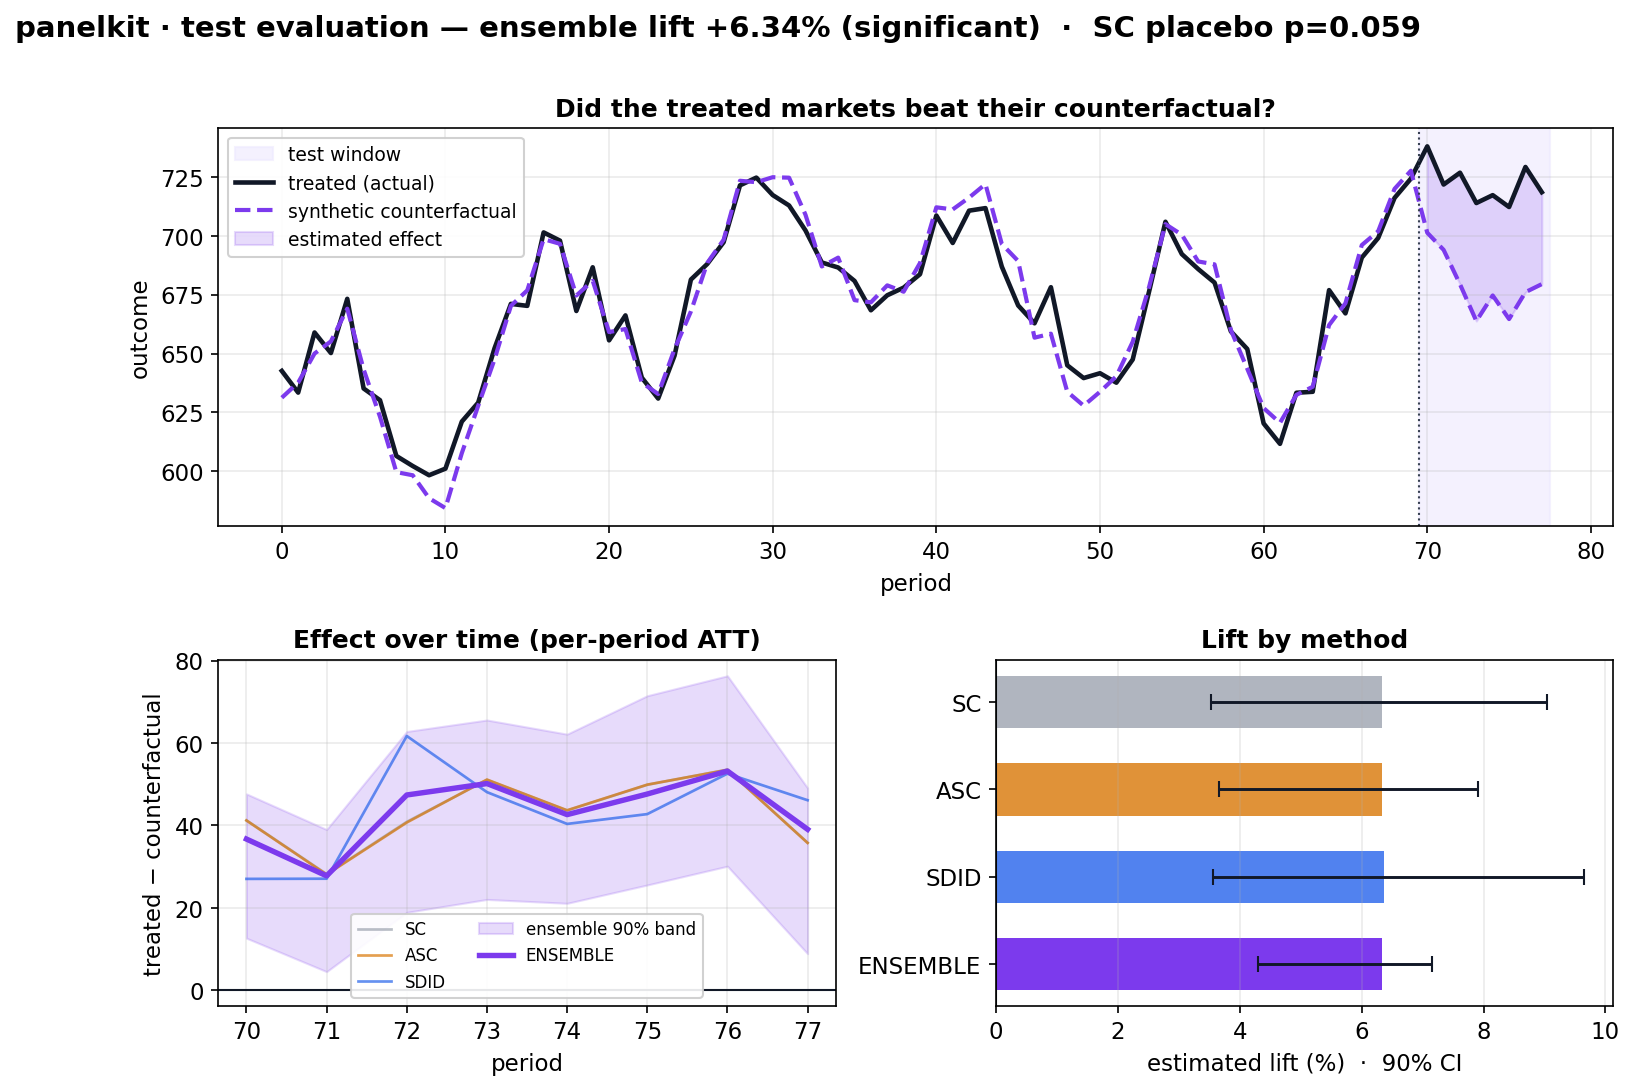
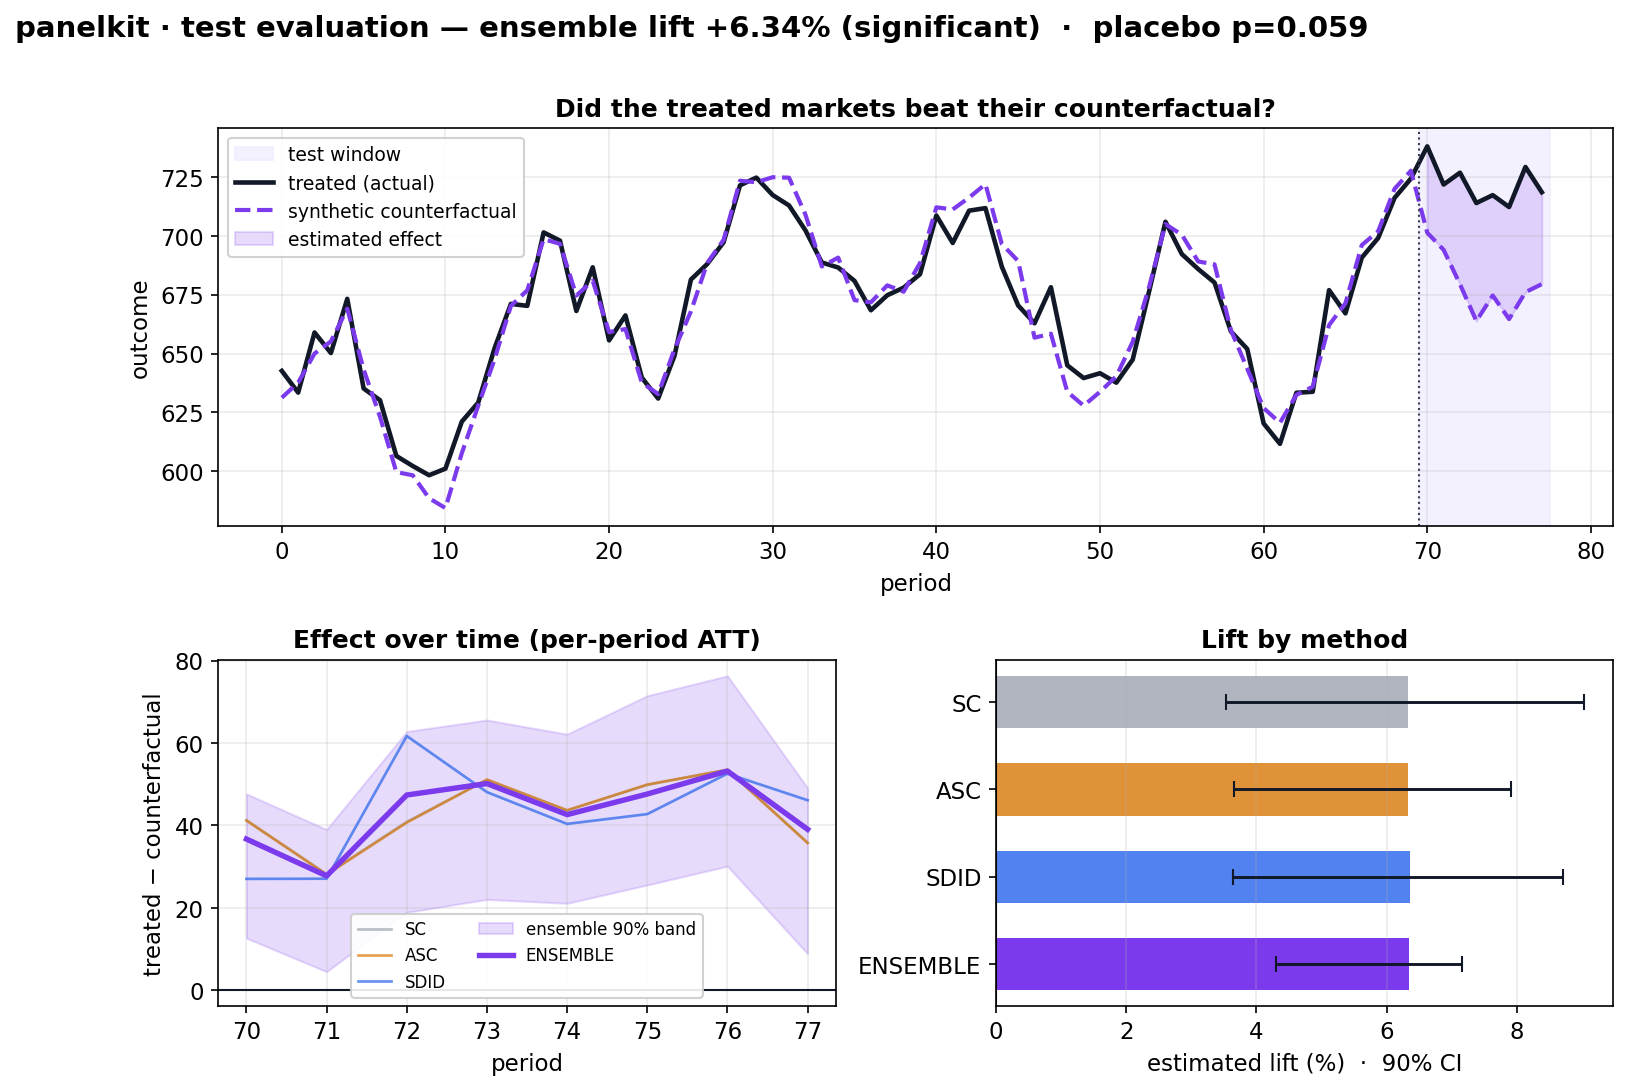
Audit hardening: fix mcnnm keyword, evaluate degenerate-CI guard, robustness
From a full repo audit (Rust core + Python/bindings + docs/packaging review):

Bindings / API
- fit_mcnnm: rename `lambda` -> `lambda_` so the penalty is usable as a Python
  keyword (`lambda` is reserved); stub now matches the binding.

evaluate() inference
- Guard the degenerate case: with <2 comparable donor placebos, report the CI as
  undefined (NaN) and significant=False instead of a fake zero-width interval that
  falsely read as significant. Add a `low_power` flag + plain-language warning.
- Apply the Abadie 2x pre-fit filter to per-method CIs too (was ensemble-only),
  for internal consistency.
- Relabel the p-value as the ENSEMBLE in-space placebo p-value (was mislabeled
  "SC") in summary and figure.
- Dedup treated markets in power/diagnose/evaluate (a market listed twice no
  longer inflates the n_treated-scaled cumulative).
- Case-insensitive ensemble-weight dict keys.

Rust robustness
- SDID: assert >=1 pre- and >=1 post-period (was silent NaN, unlike SC/ASC/MCNNM).
- simplex: remove dead `rho` binding (no behavior change).

Docs
- PUBLISHING.md: de-stale the 0.1.0 version (use <VERSION>); note PR-first flow.
- README: "bootstrap CIs"/"SC in-space" -> "in-space placebo" for evaluate().

Audit verified clean: Rust core has no critical math errors (GEMM/QR/Cholesky/
SVD/eig/RNG + all estimators faithful); TWFE==numpy OLS exactly; Goodman-Bacon
identity holds; SC weights simplex; determinism 1-vs-8 threads; cargo audit clean.
[…]

diff --git a/python/panelkit/design.py b/python/panelkit/design.py
@@ -42,7 +42,8 @@ def _ensemble_weight_arg(spec):
         raise ValueError(f"unknown ensemble_weights {spec!r} (use 'auto', 'equal', "
                          "a dict, or a 3-list)")
     if isinstance(spec, dict):
-        w = [float(spec.get(m, spec.get(m.lower(), 0.0))) for m in _ENSEMBLE_ORDER]
+        norm = {str(k).upper(): v for k, v in spec.items()}  # case-insensitive keys
+        w = [float(norm.get(m, 0.0)) for m in _ENSEMBLE_ORDER]
     else:
         w = [float(x) for x in spec]
         if len(w) != 3:
@@ -407,7 +408,7 @@ class GeoDesign:
                              target_power=target_power, recommended=recommended,
                              lookback=lookback, ensemble=ensemble,
                              ensemble_weights=ensemble_weights)
-        idx = self._resolve(treated)
+        idx = list(dict.fromkeys(self._resolve(treated)))  # dedup, preserve order
         names = [self.names[i] for i in idx]
         lifts = list(_DEFAULT_LIFTS if lifts is None else lifts)
         if 0.0 not in lifts:
@@ -443,7 +444,7 @@ class GeoDesign:
             if bad:
                 raise ValueError(f"treated markets were also excluded: {bad}")
             return sub.diagnose(tnames, test_len)
-        idx = self._resolve(treated)
+        idx = list(dict.fromkeys(self._resolve(treated)))  # dedup, preserve order
         names = [self.names[i] for i in idx]
         t0 = self.t - int(test_len)
         diag = _panelkit.geo_diagnostics(self.Y, idx, int(test_len))
@@ -733,7 +734,7 @@ class GeoDesign:
                 raise ValueError(f"treated markets were also excluded: {bad}")
             return sub.evaluate(tnames, treat_start, methods=methods, weights=weights,
                                 level=level, max_placebo=max_placebo, seed=seed)
-        idx = self._resolve(treated)
+        idx = list(dict.fromkeys(self._resolve(treated)))  # dedup, preserve order
         names = [self.names[i] for i in idx]
         t0 = int(treat_start)
         if not (1 <= t0 < self.t):
@@ -807,7 +808,8 @@ class GeoDesign:
             s = sum(prec)
             wv = [p / s for p in prec] if s > 0 else [1.0 / len(order)] * len(order)
         elif isinstance(weights, dict):
-            raw = [float(weights.get(m, weights.get(m.lower(), 0.0))) for m in order]
+            norm = {str(k).upper(): v for k, v in weights.items()}  # case-insensitive
+            raw = [float(norm.get(m, 0.0)) for m in order]
             s = sum(raw)
             if s <= 0:
                 raise ValueError("ensemble weights must sum to > 0")
@@ -822,15 +824,27 @@ class GeoDesign:
         a = (1.0 - float(level)) / 2.0
 
         def _ci(point, null_samples):
-            """Pivot CI: point estimate ± the placebo null spread (null ≈ 0)."""
+            """Pivot CI: point estimate ± the placebo null spread (null ≈ 0).
+            Returns NaN when there are too few placebos to form an interval —
+            never a fake zero-width CI."""
             if len(null_samples) >= 2:
                 return point + float(np.quantile(null_samples, a)), \
                     point + float(np.quantile(null_samples, 1.0 - a))
-            return point, point
+            return float("nan"), float("nan")
 
-        # --- per-method point CIs from each method's placebo att spread ---
+        def _kept_att(samples, treated_pre_m):
+            """Placebo att-means after the Abadie 2x pre-fit filter (fallback to
+            all placebos if too few comparable ones survive)."""
+            keep = [p.mean() for (p, pre) in samples
+                    if treated_pre_m <= 0 or pre <= 2.0 * treated_pre_m]
+            if len(keep) < 5 and samples:
+                keep = [p.mean() for (p, _) in samples]
+            return np.array(keep)
+
+        # --- per-method point CIs from each method's placebo att spread (same
+        #     2x pre-fit filter as the ensemble, for internal consistency) ---
         for m in order:
-            mp = np.array([p.mean() for (p, _) in pb[m]]) if pb[m] else np.array([])
+            mp = _kept_att(pb[m], per[m]["pre_rmspe"])
             lo, hi = _ci(per[m]["att"], mp)
             cfm = per[m]["cf_mean"]
             per[m]["att_lo"], per[m]["att_hi"] = lo, hi
@@ -866,10 +880,12 @@ class GeoDesign:
             pb_att = pb_mat.mean(axis=1)
             p_value = float((1.0 + np.sum(np.abs(pb_att) >= abs(ens_att))) / (1.0 + n_pb))
         else:
-            point_lo = point_hi = ens_path.copy()
-            point_hw = 0.0
+            # too few comparable placebos → inference undefined (no fake band)
             run = np.cumsum(ens_path)
-            cum_lo_band = cum_hi_band = np.zeros(post_len)
+            point_lo = np.full(post_len, np.nan)
+            point_hi = np.full(post_len, np.nan)
+            point_hw = 0.0
+            cum_lo_band = cum_hi_band = np.full(post_len, np.nan)
             pb_att = np.array([])
             p_value = None
         att_lo, att_hi = _ci(ens_att, pb_att)
@@ -883,6 +899,7 @@ class GeoDesign:
             "lift_hi": att_hi / ens_cf_mean if ens_cf_mean else float("nan"),
             "cumulative": float(ens_path.sum()) * n_treated,
             "weights": wmap, "n_placebo": n_pb,
+            "low_power": n_pb < 8,   # too few placebos for reliable inference
         }
 
         # full-timeline counterfactual + gap path (pre shows fit; post = effect)
@@ -1000,11 +1017,14 @@ class _MultiCellReport:
                      f"({', '.join(map(str, self.cells))})")
         lines.append(f"Test duration     : {self.test_len} periods")
         lines.append(f"Shared donor pool : {len(self.donor_names)} markets")
-        lines.append(f"Combined holdout  : {100*self.pooled_holdout:.1f}% of total volume")
+        lines.append(f"Combined holdout  : {100*self.pooled_holdout:.1f}% of total volume "
+                     f"(all cells together)")
         lines.append(f"Powered at {int(100*self.target_power)}% power, "
                      f"{int(100*(1-self.alpha))}% confidence "
                      f"(each cell vs. the shared pool).")
         lines.append("")
+        # Per-cell 'Holdout' is that cell's share of its OWN sub-panel (cell +
+        # shared donors); the Combined holdout above is over the full panel.
         lines.append(f"{'Cell':<14}{'Markets':<28}{'MDE':>8}{'Conf':>7}{'Holdout':>9}")
         lines.append("-" * 64)
         for label, rep in self.cells.items():
@@ -1069,8 +1089,11 @@ class _EvalReport:
 
     @property
     def significant(self):
-        """True if the ensemble CI excludes zero (effect detected)."""
+        """True if the ensemble CI is well-defined and excludes zero. Returns
+        False when inference is undefined (too few placebos → NaN interval)."""
         lo, hi = self.ensemble["att_lo"], self.ensemble["att_hi"]
+        if not (np.isfinite(lo) and np.isfinite(hi)):
+            return False
         return (lo > 0) or (hi < 0)
 
     def summary(self) -> str:
@@ -1092,11 +1115,19 @@ class _EvalReport:
         lines.append(f"   ensemble weights: {wstr}")
         lines.append("")
         if self.p_value is not None:
-            lines.append(f"SC in-space placebo p-value : {self.p_value:.3f}")
-        verdict = ("✓ Significant lift — the ensemble interval excludes zero."
-                   if self.significant else
-                   "~ Not distinguishable from zero at this level — the ensemble "
-                   "interval includes zero.")
+            lines.append(f"In-space placebo p-value    : {self.p_value:.3f}  "
+                         f"(ensemble, {e.get('n_placebo', 0)} donors)")
+        if e.get("low_power"):
+            lines.append("⚠ Few comparable donors — inference is low-powered; treat "
+                         "intervals/p-value with caution.")
+        if self.significant:
+            verdict = "✓ Significant lift — the ensemble interval excludes zero."
+        elif not (np.isfinite(e["att_lo"]) and np.isfinite(e["att_hi"])):
+            verdict = ("? Inference undefined — too few comparable donor placebos "
+                       "to form an interval.")
+        else:
+            verdict = ("~ Not distinguishable from zero at this level — the ensemble "
+                       "interval includes zero.")
         lines.append(f"Headline (ensemble)         : {100*e['lift']:+.2f}% lift, "
                      f"{e['cumulative']:,.0f} cumulative incremental")
         if "cum_lo" in e:
@@ -1588,7 +1619,7 @@ def _plot_eval(rep: "_EvalReport", path):
     axc.set_title("Lift by method", fontweight="bold")
     axc.grid(True, axis="x", alpha=0.25)
 
-    pv = f"  ·  SC placebo p={rep.p_value:.3f}" if rep.p_value is not None else ""
+    pv = f"  ·  placebo p={rep.p_value:.3f}" if rep.p_value is not None else ""
     verdict = "significant" if rep.significant else "not significant"
     fig.suptitle(f"panelkit · test evaluation — ensemble lift "
                  f"{100*rep.ensemble['lift']:+.2f}% ({verdict}){pv}",

diff --git a/python/tests/test_design.py b/python/tests/test_design.py
@@ -177,6 +177,35 @@ def test_evaluate_cis_are_calibrated_not_anticonservative():
     assert fp / K <= 0.20      # generous bound; true rate is near 0
 
 
+def test_evaluate_low_power_is_not_falsely_significant():
+    # With only one donor, in-space placebo inference is undefined. It must NOT
+    # report a (false) significant effect or a fake zero-width CI.
+    rng = np.random.default_rng(0)
+    base = 100 + np.cumsum(rng.normal(size=40))
+    Y = np.vstack([base + rng.normal(scale=0.3, size=40), base])  # market0 ≈ donor
+    Y[0, 30:] *= 1.15                                              # big injected lift
+    ev = GeoDesign(Y, names=["t", "donor"]).evaluate(treated=["t"], treat_start=30)
+    assert ev.ensemble["n_placebo"] <= 1
+    assert ev.significant is False
+    lo, hi = ev.ensemble["att_lo"], ev.ensemble["att_hi"]
+    assert not (np.isfinite(lo) and np.isfinite(hi))   # CI undefined, not zero-width
+    assert ev.p_value is None
+    assert ev.ensemble["low_power"]
+
+
+def test_evaluate_dedups_treated_markets():
+    # Listing a market twice must not inflate the cumulative (which scales by the
+    # number of treated markets).
+    Y, names = geo_panel(n=30, t=60)
+    Yt = Y.copy()
+    Yt[0, 48:] *= 1.10
+    d = GeoDesign(Yt, names=names)
+    a = d.evaluate(treated=["M00"], treat_start=48)
+    b = d.evaluate(treated=["M00", "M00"], treat_start=48)
+    assert a.cumulative == b.cumulative
+    assert a.lift == b.lift
+
+
 def test_evaluate_validates_inputs():
     Y, names = geo_panel(n=8, t=40)
     d = GeoDesign(Y, names=names)

diff --git a/python/tests/test_sc_family.py b/python/tests/test_sc_family.py
@@ -52,3 +52,12 @@ def test_mcnnm_truncated_svd_recovers_effect():
     full = MCNNM(lambda_=1.0).fit(y, treated=[0], treat_time=t0).att
     fast = MCNNM(lambda_=1.0, max_rank=6).fit(y, treated=[0], treat_time=t0).att
     assert abs(fast - full) < 0.5
+
+
+def test_fit_mcnnm_lambda_keyword_usable():
+    # Regression: the raw binding's penalty arg must be usable as a Python
+    # keyword (`lambda_`, not the reserved word `lambda`).
+    from panelkit import _panelkit
+    y, t0 = factor_panel(3.0, seed=2)
+    r = _panelkit.fit_mcnnm(y, [0], int(t0), lambda_=1.0)
+    assert r.att == r.att  # not NaN; call succeeded with the keyword

diff --git a/crates/pypanelkit/src/api_sc.rs b/crates/pypanelkit/src/api_sc.rs
@@ -111,13 +111,15 @@ pub fn fit_sdid(
 /// Fit Matrix-Completion NNM (Athey et al. 2021). `max_rank`, when set, uses a
 /// fast randomized truncated SVD inside SoftImpute (big speedup, low-rank cap).
 #[pyfunction]
-#[pyo3(signature = (y, treated, treat_time, lambda=None, max_iter=200, tol=1e-5, seed=0, max_rank=None))]
+// `lambda_` (not `lambda`) so it is usable as a Python keyword argument —
+// `lambda` is a reserved word in Python.
+#[pyo3(signature = (y, treated, treat_time, lambda_=None, max_iter=200, tol=1e-5, seed=0, max_rank=None))]
 #[allow(clippy::too_many_arguments)]
 pub fn fit_mcnnm(
     y: PyReadonlyArray2<f64>,
     treated: Vec<usize>,
     treat_time: usize,
-    lambda: Option<f64>,
+    lambda_: Option<f64>,
     max_iter: usize,
     tol: f64,
     seed: u64,
@@ -125,7 +127,7 @@ pub fn fit_mcnnm(
 ) -> PyResult<PyScResult> {
     let panel = Panel::block(mat_from_numpy(&y), &treated, treat_time);
     let cfg = McnnmConfig {
-        lambda,
+        lambda: lambda_,
         max_iter,
         tol,
         seed,

diff --git a/crates/estimators/src/sc/sdid.rs b/crates/estimators/src/sc/sdid.rs
@@ -87,6 +87,10 @@ pub fn fit_at(panel: &Panel, t0: usize, cfg: SdidConfig) -> ScFit {
     let t = panel.n_periods();
     let t_pre = t0;
     let t_post = t - t0;
+    assert!(
+        t_pre >= 1 && t_post >= 1,
+        "SDID needs at least one pre- and one post-period (t0 in 1..n_periods)"
+    );
     let n_tr = treated.len();
 
     // Treated-average series.

diff --git a/crates/linalg/src/opt/simplex.rs b/crates/linalg/src/opt/simplex.rs
@@ -30,17 +30,14 @@ pub fn project_simplex(v: &[f64]) -> Vec<f64> {
     let mut u = v.to_vec();
     u.sort_by(|a, b| b.partial_cmp(a).unwrap()); // descending
     let mut css = 0.0;
-    let mut rho = 0usize;
     let mut theta = 0.0;
     for (j, &uj) in u.iter().enumerate() {
         css += uj;
         let t = (css - 1.0) / (j as f64 + 1.0);
         if uj - t > 0.0 {
-            rho = j + 1;
             theta = t;
         }
     }
-    let _ = rho;
     v.iter().map(|&vi| (vi - theta).max(0.0)).collect()
 }
 

diff --git a/PUBLISHING.md b/PUBLISHING.md
@@ -18,18 +18,20 @@
 
 ## What's left to actually publish (manual / one-time)
 
-Version is set to **`0.1.0`** (`Cargo.toml [workspace.package]` + `pyproject.toml`).
+The single source of truth for the version is `Cargo.toml [workspace.package]`
+(mirrored in `pyproject.toml`). Use that value wherever `<VERSION>` appears below.
 
 1. Repo + metadata URLs are set to `github.com/cacoleman16/panelkit`.
-2. **(If re-releasing) bump the version** — PyPI versions are immutable; you
-   cannot overwrite `0.1.0` once uploaded.
+2. **Bump the version** in `Cargo.toml` + `pyproject.toml` before each release —
+   PyPI versions are immutable; you cannot overwrite a version once uploaded.
 3. **Set up Trusted Publishing on PyPI** (recommended, no tokens):
    - Create the project on PyPI (or use "pending publisher" before first upload).
    - Add a trusted publisher: this GitHub repo, workflow `release.yml`,
      environment `pypi`.
-4. **Tag and push:** `git tag v0.1.0 && git push --tags`. The `release.yml`
-   workflow builds wheels (linux/macos/windows, manylinux) + sdist and publishes
-   via OIDC.
+4. **Tag and push:** `git tag v<VERSION> && git push origin v<VERSION>`. The
+   `release.yml` workflow builds wheels (linux/macos/windows, manylinux) + sdist
+   and publishes via OIDC. (Note: `main` is branch-protected — land changes via PR
+   first, then tag the merged commit.)
 5. **Smoke-test from TestPyPI first** (optional but advised):
    `maturin publish --repository testpypi ...`, then
    `pip install -i https://test.pypi.org/simple panelkit`.

diff --git a/README.md b/README.md
@@ -244,7 +244,7 @@ per-cell MDE/confidence/holdout report and a combined figure:
 the power analysis: fit SC / ASC / SDID on a test that already happened, blend
 them into a weighted-average **ensemble** estimate, and report each one's lift,
 confidence interval (in-space placebo), and cumulative incremental —
-with an SC in-space placebo p-value:
+with an in-space placebo p-value:
 
 ![test evaluation](assets/geo_evaluate.png)
 
@@ -286,7 +286,7 @@ What you get out of the box:
 - **A weighted-average ensemble** of SC + ASC + SDID (combined per placebo window,
   with auto inverse-variance weights) for a steadier estimate than any one method.
 - **Post-test evaluation** — `evaluate()` measures a test that already ran:
-  per-method + ensemble lift, bootstrap CIs, cumulative incremental, and a p-value.
+  per-method + ensemble lift, in-space placebo CIs, cumulative incremental, and a p-value.
 
 See [`examples/geo_demo.py`](examples/geo_demo.py).
 